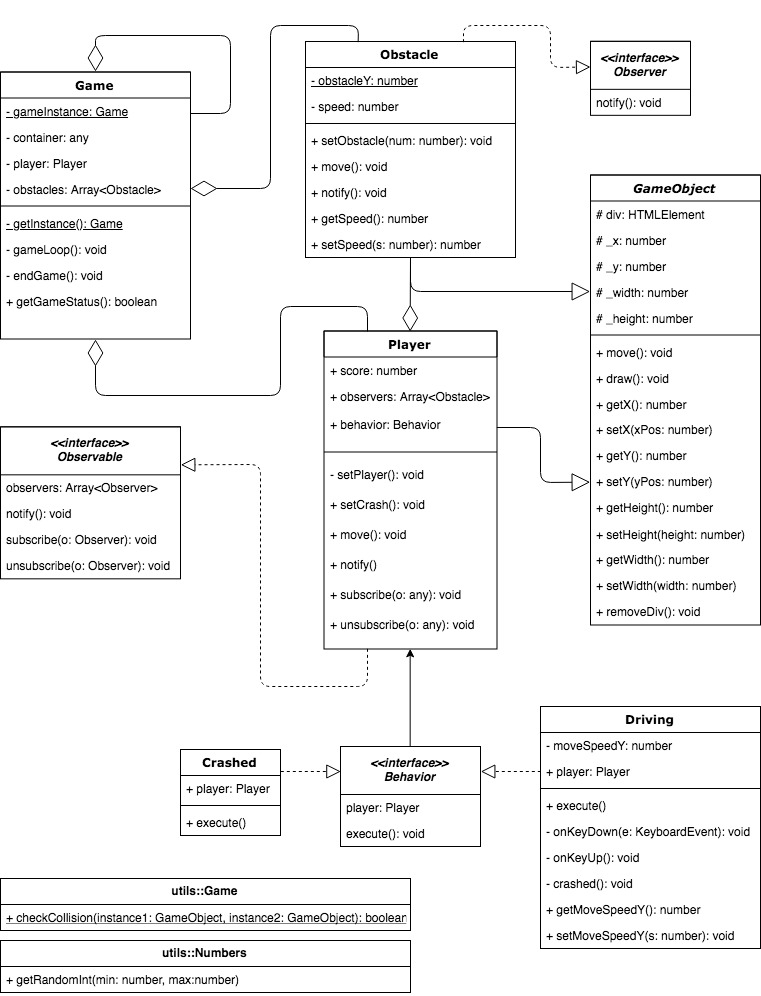
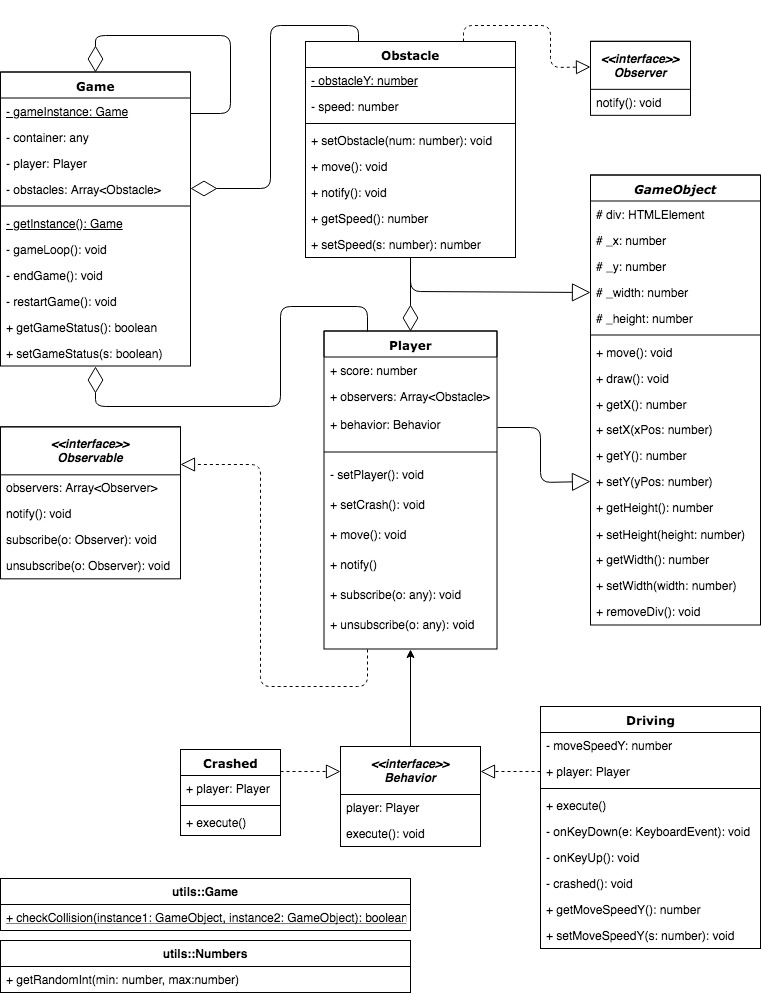
Final fine tunings and edited the Readme file and UML

diff --git a/docs/js/main.js b/docs/js/main.js
@@ -37,32 +37,46 @@ var Game = (function () {
             for (var _i = 0, _a = this.obstacles; _i < _a.length; _i++) {
                 var obstacle = _a[_i];
                 if (Utils.Game.checkCollision(obstacle, this.player)) {
-                    console.log(Utils.Game.checkCollision(obstacle, this.player));
                     this.endGame();
                 }
                 else {
                     obstacle.move();
                     this.player.score = this.player.score + 1;
                     var scoreText = 'Score: ' + this.player.score;
-                    var board = document.getElementsByTagName('score')[0];
-                    board.innerHTML = scoreText;
+                    var scoreBoard = document.getElementsByTagName('score')[0];
+                    scoreBoard.innerHTML = scoreText;
                 }
             }
         }
         else {
-            var container_1 = document.querySelector('#container');
-            var start = document.createElement('start');
-            var scoreText = 'Final Score: ' + this.player.score;
-            start.innerText = scoreText;
-            document.body.appendChild(start);
-            setTimeout(function () {
-                container_1.remove();
-            }, 1500);
         }
         requestAnimationFrame(function () { return _this.gameLoop(); });
     };
     Game.prototype.endGame = function () {
         this.gameOver = true;
+        var container = document.querySelector('#container');
+        var start = document.createElement('start');
+        var scoreText = 'Final Score: ' + this.player.score;
+        start.innerText = scoreText;
+        document.body.appendChild(start);
+        var restart = document.createElement('restart');
+        restart.innerText = 'Restart';
+        document.body.appendChild(restart);
+        restart.addEventListener('click', function () {
+            restart.remove();
+            start.remove();
+            Game.getInstance().restartGame();
+        });
+        setTimeout(function () {
+            container.remove();
+        }, 1500);
+    };
+    Game.prototype.restartGame = function () {
+        this.setGameStatus(false);
+        window.location.reload();
+    };
+    Game.prototype.setGameStatus = function (s) {
+        this.gameOver = s;
     };
     Game.prototype.getGameStatus = function () {
         return this.gameOver;
@@ -71,8 +85,8 @@ var Game = (function () {
 }());
 window.addEventListener('load', function () {
     var startText = 'Highway Racer';
-    var board = document.getElementsByTagName('score')[0];
-    board.innerHTML = startText;
+    var scoreBoard = document.getElementsByTagName('score')[0];
+    scoreBoard.innerHTML = startText;
     var start = document.createElement('start');
     start.innerText = 'Start Game';
     document.body.appendChild(start);

diff --git a/dev/game.ts b/dev/game.ts
@@ -46,7 +46,6 @@ class Game {
             // For every obstacle. Check the collision
             for (let obstacle of this.obstacles) {
                 if (Utils.Game.checkCollision(obstacle, this.player)) {
-                    console.log(Utils.Game.checkCollision(obstacle, this.player));
                     this.endGame();
                 } else {
                     // If there is no collision move all obstacles and add score to player
@@ -55,26 +54,45 @@ class Game {
 
                     // Display Score
                     let scoreText: string = 'Score: ' + this.player.score;
-                    let board = document.getElementsByTagName('score')[0];
-                    board.innerHTML = scoreText;
+                    let scoreBoard = document.getElementsByTagName('score')[0];
+                    scoreBoard.innerHTML = scoreText;
                 }
             }
-        } else {
-            let container = document.querySelector('#container');
-            let start = document.createElement('start');
-            let scoreText: string = 'Final Score: ' + this.player.score;
-            start.innerText = scoreText;
-            document.body.appendChild(start);
-
-            setTimeout(function () {
-                container!.remove();
-            }, 1500);
         }
         requestAnimationFrame(() => this.gameLoop());
     }
 
     private endGame(): void {
         this.gameOver = true;
+
+        let container = document.querySelector('#container');
+        let start = document.createElement('start');
+        let scoreText: string = 'Final Score: ' + this.player.score;
+        start.innerText = scoreText;
+        document.body.appendChild(start);
+
+        let restart = document.createElement('restart');
+        restart.innerText = 'Restart';
+        document.body.appendChild(restart);
+
+        restart.addEventListener('click', function () {
+            restart.remove();
+            start.remove();
+            Game.getInstance().restartGame();
+        });
+
+        setTimeout(function () {
+            container!.remove();
+        }, 1500);
+    }
+
+    private restartGame(): void {
+        this.setGameStatus(false);
+        window.location.reload();
+    }
+
+    public setGameStatus(s: boolean) {
+        this.gameOver = s;
     }
 
     public getGameStatus(): boolean {
@@ -84,8 +102,8 @@ class Game {
 
 window.addEventListener('load', function () {
     let startText: string = 'Highway Racer';
-    let board = document.getElementsByTagName('score')[0];
-    board.innerHTML = startText;
+    let scoreBoard = document.getElementsByTagName('score')[0];
+    scoreBoard.innerHTML = startText;
 
     let start = document.createElement('start');
     start.innerText = 'Start Game';

diff --git a/README.md b/README.md
@@ -1,5 +1,8 @@
 # PRG08-Typescript-Game
 
+## Game description
+In this game you are racing on the highway. Avoid as many cars as you can. One mistake means game over and you need to restart.
+
 ## Installation
 To play the game locally, simply fork and download this repository and compile the code.
 Open the index.html file in your browser.
